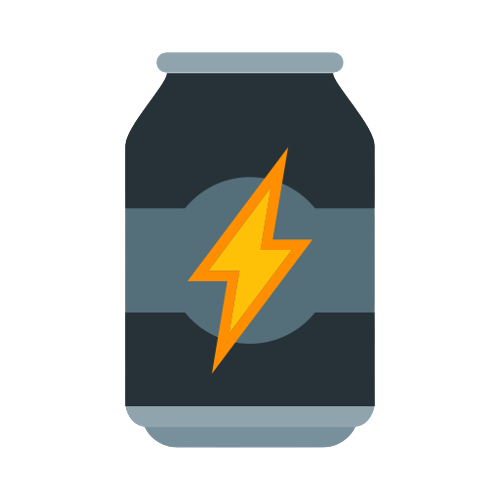
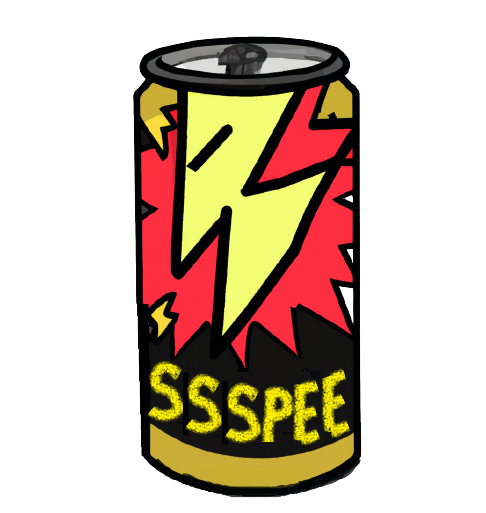
ghost and ice pickups working, changed pickup images

diff --git a/core/src/pentasnake/client/entities/Snake.java b/core/src/pentasnake/client/entities/Snake.java
@@ -9,6 +9,9 @@ import com.badlogic.gdx.math.Intersector;
 import com.badlogic.gdx.math.Rectangle;
 import com.badlogic.gdx.scenes.scene2d.Actor;
 import com.badlogic.gdx.utils.SnapshotArray;
+import com.badlogic.gdx.utils.Timer;
+
+import java.util.concurrent.TimeUnit;
 
 import static pentasnake.client.entities.Snake.SnakeDirection.*;
 
@@ -51,6 +54,8 @@ public class Snake extends Actor {
     private final Wall wall;
 
     private boolean collidedWithWall;
+
+    private boolean ghostModeActive;
 
     public Snake(int x, int y, int radius, Color bodyColor, int id, Wall wall) {
         head = new SnakePart(x, y, radius, Color.ORANGE, E);
@@ -151,26 +156,29 @@ public class Snake extends Actor {
 
     private boolean collisionDetection(Wall wall) {
         // checks for self collision
-        for (int i = 0; i < this.parts.size; i++) {
-            for (int j = 0; j < this.parts.size; j++) {
-                if (Math.abs(i - j) < 2) continue;
-                if (this.parts.get(i).overlaps(this.parts.get(j))) {
-                    colliders.add(parts.get(i));
-                    colliders.add(parts.get(j));
-                    return true;
+        if (!ghostModeActive) {
+            for (int i = 0; i < this.parts.size; i++) {
+                for (int j = 0; j < this.parts.size; j++) {
+                    if (Math.abs(i - j) < 2) continue;
+                    if (this.parts.get(i).overlaps(this.parts.get(j))) {
+                        colliders.add(parts.get(i));
+                        colliders.add(parts.get(j));
+                        return true;
+                    }
                 }
             }
         }
         // checks for wall collision
-        Circle head = this.parts.first();
-        for (WallParts wallPart : wall.getParts()) {
-            Rectangle wallRect = new Rectangle(wallPart.getX(), wallPart.getY(), wallPart.getWidth(), wallPart.getHeight());
-            if (Intersector.overlaps(head, wallRect)) {
-                collidedWithWall = true;
-                return true;
+        if(!ghostModeActive) {
+            Circle head = this.parts.first();
+            for (WallParts wallPart : wall.getParts()) {
+                Rectangle wallRect = new Rectangle(wallPart.getX(), wallPart.getY(), wallPart.getWidth(), wallPart.getHeight());
+                if (Intersector.overlaps(head, wallRect)) {
+                    collidedWithWall = true;
+                    return true;
+                }
             }
         }
-
         return false;
     }
 
@@ -387,19 +395,25 @@ public class Snake extends Actor {
     }
 
     public void freeze() {
-        /*speed = 0;
+        speed = 0;
         head.setColor(Color.CYAN);
-            executor.schedule(new Runnable() {
+            Timer.schedule(new Timer.Task() {
                 @Override
                 public void run() {
                     speed = DEFAULT_SPEED;
                     head.setColor(Color.ORANGE);
                 }
-            }, 5, TimeUnit.SECONDS);*/
+            }, 5);
     }
 
     public void ghostMode() {
-        // enables snake to go through obstacles, walls, other snakes, but not itself
+        ghostModeActive = true;
+        Timer.schedule(new Timer.Task() {
+            @Override
+            public void run() {
+                ghostModeActive = false;
+            }
+        }, 10);
     }
 
     enum SnakeDirection {N, NE, E, SE, S, SW, W, NW}

diff --git a/core/src/pentasnake/pointsystem/PickupItems.java b/core/src/pentasnake/pointsystem/PickupItems.java
@@ -29,21 +29,14 @@ public abstract class PickupItems extends BaseActorTEMP {
         this.points = points;
     }
 
-    private int size=40;
+    private final int SIZE=60;
 
     protected TextureRegion region;
 
-    public PickupItems() {
-    }
+    public PickupItems() {}
 
     public PickupItems(float x, float y, Stage stage){
         super(x,y,stage);
-        points = 0; // default value
-    }
-
-    public PickupItems(float x, float y, Stage stage, int points){
-        super(x,y,stage);
-        this.points = points;
     }
 
     public int getPoints(){
@@ -66,12 +59,11 @@ public abstract class PickupItems extends BaseActorTEMP {
     }
 
     public void draw(Batch batch, float parentAlpha) {
-        batch.draw(region, getX(), getY(), size, size);
+        batch.draw(region, getX(), getY(), SIZE, SIZE);
     }
 
     public void setBoundaryRectangle() {
-        boundaryRectangle = new Rectangle(getX(), getY(), size, size);
-        ;
+        boundaryRectangle = new Rectangle(getX(), getY(), SIZE, SIZE);
     }
 
 }

diff --git a/core/src/pentasnake/client/screen/PlayScreen.java b/core/src/pentasnake/client/screen/PlayScreen.java
@@ -141,6 +141,7 @@ public class PlayScreen implements Screen {
     }
 
     public void update(float dt) {
+
         for (PickupItems pickup : pickupSpawner.getPickups()) {
             if (Intersector.overlaps(snakeList.get(0).getHead(), pickup.getBoundaryRectangle())) {
                 pickup.collectItem(snakeList.get(0));

diff --git a/core/src/pentasnake/pointsystem/Food.java b/core/src/pentasnake/pointsystem/Food.java
@@ -12,12 +12,6 @@ public class Food extends PickupItems {
     @Getter
     Type type = Type.FOOD;
 
-    public final int MAX_FOOD = 6;
-
-    public int getMAX_FOOD() {
-        return MAX_FOOD;
-    }
-
     public Food(float x, float y, Stage stage) {
         super(x, y, stage);
         setPoints(50);
